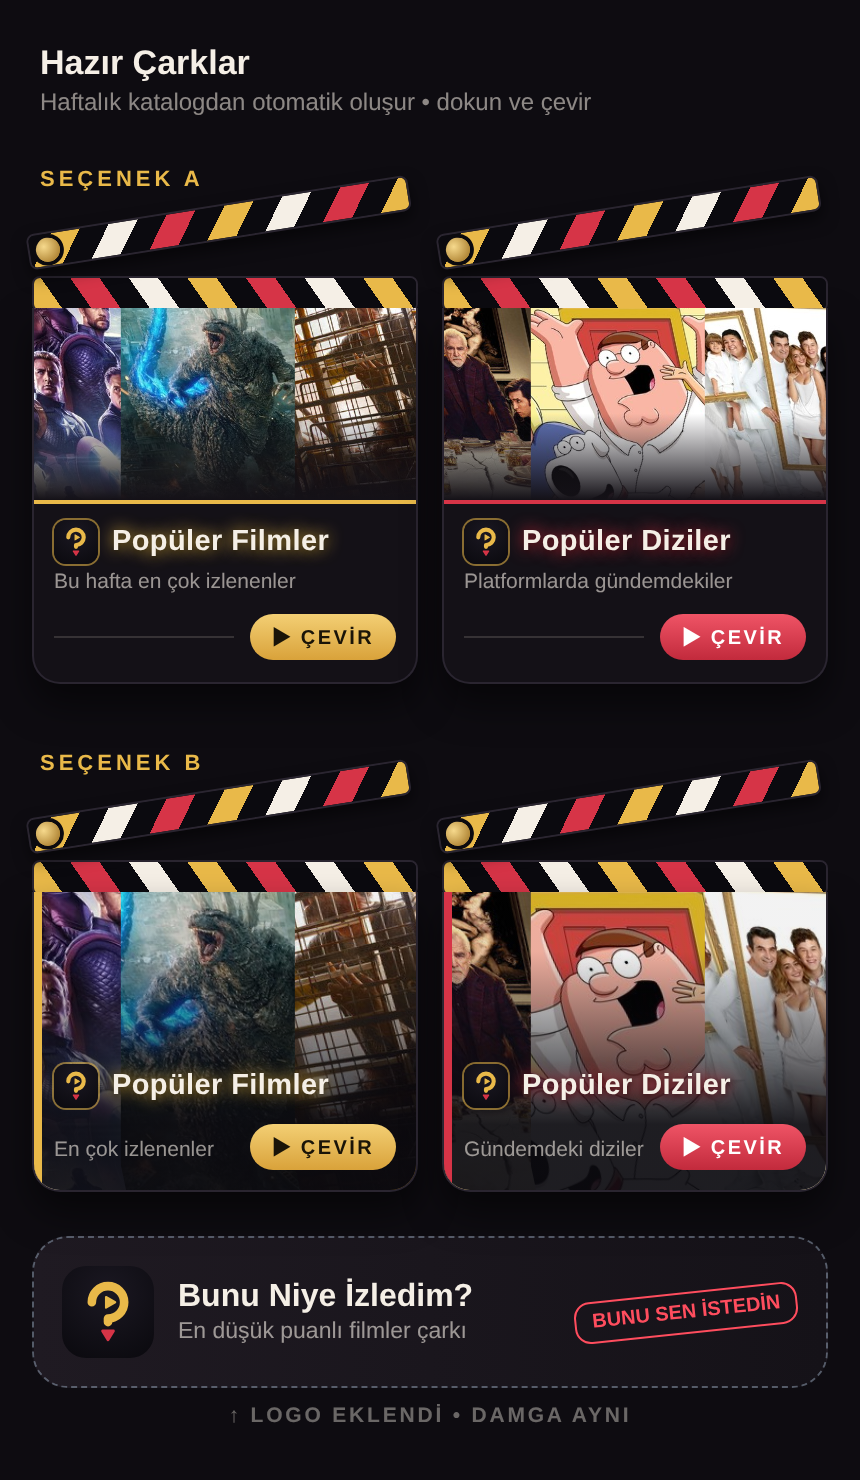
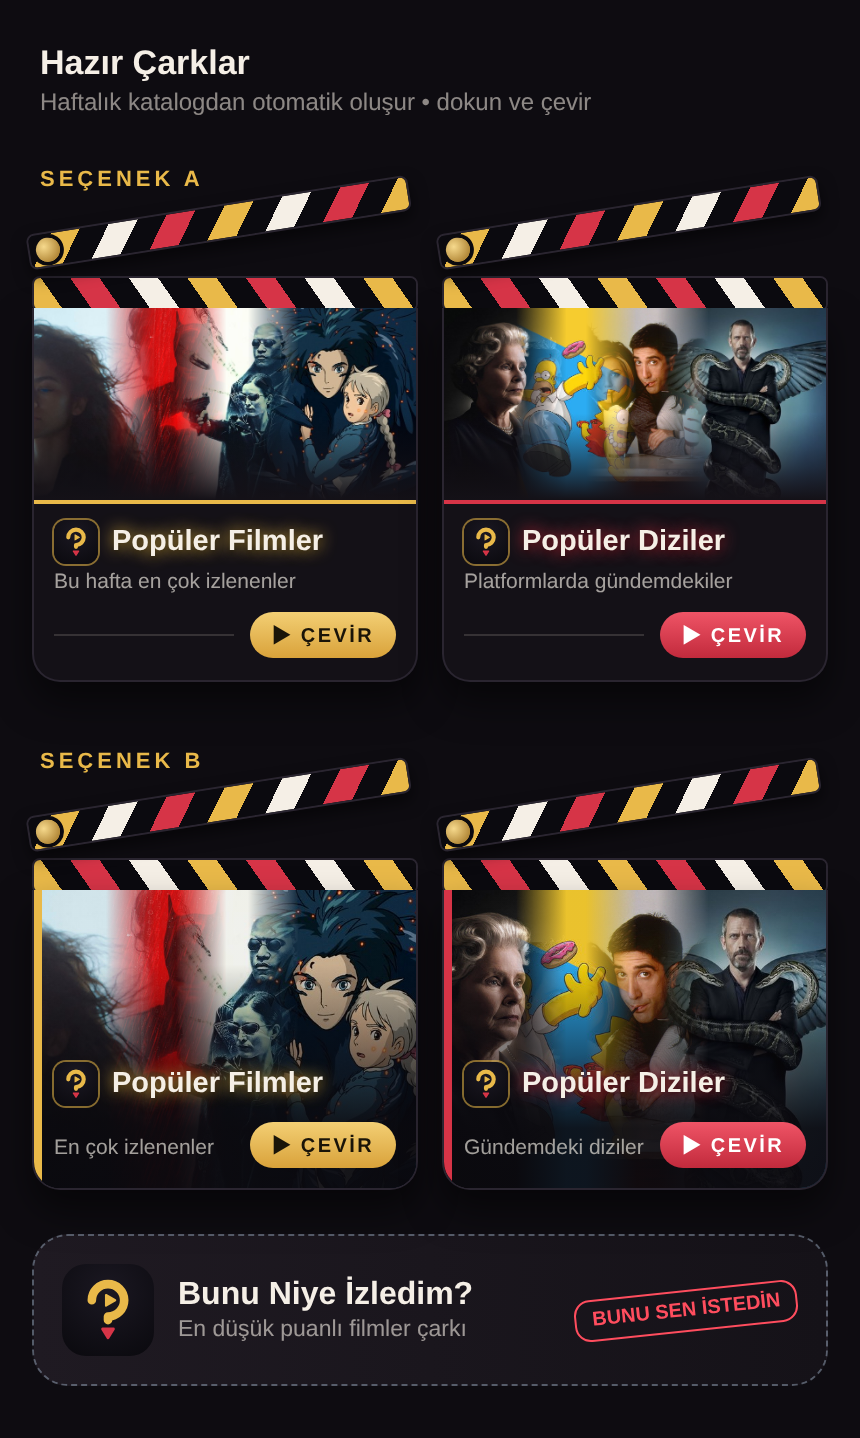
Önizleme: yumuşak geçişli görüntü kolajı, yeni film/dizi görüntüleri
Claude-Session: https://claude.ai/code/session_01Q1LBDkMis9fZfSetxmGZms

diff --git a/branding/hazir-carklar-secenekler.html b/branding/hazir-carklar-secenekler.html
@@ -1,59 +1,46 @@
 <!DOCTYPE html><html><head><meta charset="utf-8"><style>*{box-sizing:border-box;margin:0;padding:0}
 body{width:430px;background:#0e0c11;font-family:Roboto,"Noto Sans",Arial,sans-serif;color:#f5efe6;padding:22px 16px 26px}
 h2{font-size:17px;font-weight:900;margin:0 4px 2px}.sub{font-size:12px;color:rgba(245,239,230,.55);margin:0 4px 0}
-.opt{font-size:11px;letter-spacing:2px;font-weight:900;color:#e9b949;margin:26px 4px 6px}
-.grid{display:grid;grid-template-columns:1fr 1fr;gap:12px;margin-top:30px}
-.clap{position:relative}
-.lg{width:22px;height:22px;border-radius:6px;flex:none;box-shadow:0 0 0 1px rgba(233,185,73,.55)}
-.t{font-size:14.5px;font-weight:900;letter-spacing:.2px;white-space:nowrap}
-.d{font-size:10.5px;color:rgba(245,239,230,.6);margin-top:3px;line-height:1.25}
-.btn{font-size:10px;font-weight:900;letter-spacing:1.2px;color:#1a1408;background:linear-gradient(180deg,#f3cf74,#d9a23a);border-radius:999px;padding:5px 11px;white-space:nowrap;display:inline-block}
-.btn.red{background:linear-gradient(180deg,#ef5466,#c22a3c);color:#fff}
-/* A: üstte görsel, altta klaket tahtası */
-.A .body{margin-top:40px;border-radius:0 0 14px 14px;overflow:hidden;border:1.5px solid #2a2530;border-top:none;background:#141117;box-shadow:0 10px 18px rgba(0,0,0,.5)}
-.A .img{height:96px;position:relative;overflow:hidden}
-.A .img::after{content:"";position:absolute;inset:0;background:linear-gradient(180deg,rgba(11,10,15,0) 55%,#141117 100%)}
-.A .slate{padding:8px 10px 11px;border-top:2px solid var(--acc)}
-.A .row{display:flex;align-items:center;gap:7px}
-.A .foot{display:flex;align-items:center;justify-content:space-between;margin-top:9px}
-.A .chalk{flex:1;height:1px;background:rgba(245,239,230,.15);margin-right:8px}
-/* B: tam görsel, alt bant */
-.B .body{margin-top:40px;height:150px;border-radius:0 0 14px 14px;overflow:hidden;border:1.5px solid #2a2530;border-top:none;position:relative;box-shadow:0 10px 18px rgba(0,0,0,.5)}
-.B .body::after{content:"";position:absolute;inset:0;background:linear-gradient(180deg,rgba(11,10,15,.05) 20%,rgba(11,10,15,.92) 78%)}
-.B .band{position:absolute;left:10px;right:10px;bottom:10px;z-index:2}
-.B .row{display:flex;align-items:center;gap:7px}
-.B .foot{display:flex;justify-content:space-between;align-items:center;margin-top:8px}
-.B .bar{position:absolute;left:0;top:0;bottom:0;width:4px;background:var(--acc);z-index:2}
-.glow{text-shadow:0 0 8px var(--acc),0 1px 3px #000}
-
+.opt{font-size:11px;letter-spacing:2px;font-weight:900;color:#e9b949;margin:26px 4px 0}
+.grid{display:grid;grid-template-columns:1fr 1fr;gap:12px;margin-top:18px}
+.clap{position:relative;min-width:0}
 .stick{position:absolute;left:0;right:0;height:18px;border-radius:4px;overflow:hidden;background:#0b0a0f;border:1.5px solid #2a2530}
 .stick.low{top:24px}
 .stick.top{top:2px;transform-origin:8px 22px;transform:rotate(-9deg);z-index:2;box-shadow:0 4px 8px rgba(0,0,0,.5)}
 .stripes{position:absolute;inset:0;background:repeating-linear-gradient(-55deg,#e9b949 0 12px,#0b0a0f 12px 24px,#d63447 24px 36px,#0b0a0f 36px 48px,#f5efe6 48px 60px,#0b0a0f 60px 72px)}
 .stick.low .stripes{background:repeating-linear-gradient(55deg,#e9b949 0 12px,#0b0a0f 12px 24px,#d63447 24px 36px,#0b0a0f 36px 48px,#f5efe6 48px 60px,#0b0a0f 60px 72px)}
 .hinge{position:absolute;left:3px;top:2px;width:12px;height:12px;border-radius:50%;background:radial-gradient(circle at 35% 35%,#f6d98c,#9c6d1c);box-shadow:0 0 0 2px #0b0a0f}
-
+.lg{width:22px;height:22px;border-radius:6px;flex:none;box-shadow:0 0 0 1px rgba(233,185,73,.55)}
+.t{font-size:14.5px;font-weight:900;white-space:nowrap}
+.d{font-size:10.5px;color:rgba(245,239,230,.65);margin-top:3px}
+.btn{font-size:10px;font-weight:900;letter-spacing:1.2px;color:#1a1408;background:linear-gradient(180deg,#f3cf74,#d9a23a);border-radius:999px;padding:5px 11px;white-space:nowrap}
+.btn.red{background:linear-gradient(180deg,#ef5466,#c22a3c);color:#fff}
+.glow{text-shadow:0 0 8px var(--acc),0 1px 3px #000}
+.row{display:flex;align-items:center;gap:7px}
+.blend{position:absolute;inset:0;overflow:hidden;background:#0b0a0f}
+.blend img{position:absolute;top:0;height:100%;width:44%;object-fit:cover;filter:saturate(1.05);
+ -webkit-mask-image:linear-gradient(90deg,transparent 0%,#000 30%,#000 70%,transparent 100%)}
+.blend img.f{-webkit-mask-image:linear-gradient(90deg,#000 0%,#000 70%,transparent 100%)}
+.blend img.l{-webkit-mask-image:linear-gradient(90deg,transparent 0%,#000 30%,#000 100%)}
+.A .body{margin-top:40px;border-radius:0 0 14px 14px;overflow:hidden;border:1.5px solid #2a2530;border-top:none;background:#141117;box-shadow:0 10px 18px rgba(0,0,0,.5)}
+.A .img{height:96px;position:relative}
+.A .img::after{content:"";position:absolute;inset:0;background:linear-gradient(180deg,rgba(20,17,23,0) 55%,#141117 100%)}
+.A .slate{padding:8px 10px 11px;border-top:2px solid var(--acc)}
+.A .foot{display:flex;align-items:center;justify-content:space-between;margin-top:9px}
+.A .chalk{flex:1;height:1px;background:rgba(245,239,230,.15);margin-right:8px}
+.B .body{margin-top:40px;height:150px;border-radius:0 0 14px 14px;overflow:hidden;border:1.5px solid #2a2530;border-top:none;position:relative;box-shadow:0 10px 18px rgba(0,0,0,.5)}
+.B .body::after{content:"";position:absolute;inset:0;background:linear-gradient(180deg,rgba(11,10,15,.05) 25%,rgba(11,10,15,.93) 80%)}
+.B .band{position:absolute;left:10px;right:10px;bottom:10px;z-index:2}
+.B .foot{display:flex;justify-content:space-between;align-items:center;margin-top:8px}
+.B .bar{position:absolute;left:0;top:0;bottom:0;width:4px;background:var(--acc);z-index:2}
 .worst{display:flex;align-items:center;gap:12px;border-radius:18px;padding:14px;margin-top:22px;background:linear-gradient(90deg,#1f1a22,#151218);border:1.5px dashed rgba(148,163,184,.5)}
-.worst .e{width:46px;height:46px;border-radius:12px;background:rgba(148,163,184,.15);display:flex;align-items:center;justify-content:center;font-size:24px;flex:none}
 .worst .tt{font-weight:900;font-size:16px}.worst .ss{font-size:11.5px;color:rgba(245,239,230,.6);margin-top:2px}
 .worst .go2{margin-left:auto;white-space:nowrap;font-size:10px;font-weight:900;color:#ff4d5e;border:1.5px solid #ff4d5e;border-radius:8px;padding:4px 8px;transform:rotate(-6deg);flex:none}
-.note{font-size:10.5px;letter-spacing:1.4px;color:rgba(245,239,230,.4);font-weight:800;text-align:center;margin-top:8px}
-.strips{position:absolute;top:0;bottom:0;left:-18%;right:-18%;display:flex;gap:3px;transform:skewX(-12deg);background:#e9b949}
-.strips div{flex:1;background-size:cover;background-position:center;transform:skewX(12deg) scale(1.25)}
-.strips .w{flex:1;overflow:hidden}
 </style></head><body>
 <h2>Hazır Çarklar</h2><div class="sub">Haftalık katalogdan otomatik oluşur • dokun ve çevir</div>
 <div class="opt">SEÇENEK A</div>
-<div class="grid" style="margin-top:18px"><div class="clap A" style="--acc:#E9B949"><div class="stick top"><div class="stripes"></div><div class="hinge"></div></div><div class="stick low"><div class="stripes"></div></div><div class="body"><div class="img"><div class="strips"><div class="w"><div style="height:100%;background-image:url(p/bd_7RyHsO4yDXtBv1zUU3mTpHeQ0d5.jpg)"></div></div><div class="w"><div style="height:100%;background-image:url(p/bd_oHBhHoNe59VH6bUMazDtJmWOFSS.jpg)"></div></div><div class="w"><div style="height:100%;background-image:url(p/bd_o3XwuDUj0n8qnK91p6q8LKfr6rj.jpg)"></div></div></div></div>
-<div class="slate"><div class="row"><img class="lg" src="logo.svg"><div class="t glow">Popüler Filmler</div></div><div class="d">Bu hafta en çok izlenenler</div>
-<div class="foot"><div class="chalk"></div><span class="btn ">▶ ÇEVİR</span></div></div></div></div><div class="clap A" style="--acc:#D63447"><div class="stick top"><div class="stripes"></div><div class="hinge"></div></div><div class="stick low"><div class="stripes"></div></div><div class="body"><div class="img"><div class="strips"><div class="w"><div style="height:100%;background-image:url(p/bd_d87JXX3DLkRJMfm5StCmmnmhHuX.jpg)"></div></div><div class="w"><div style="height:100%;background-image:url(p/bd_jbTqU6BJMufoMnPSlO4ThrcXs3Y.jpg)"></div></div><div class="w"><div style="height:100%;background-image:url(p/bd_nO7EzksrBzlNpAg5rgv8HzaBIkx.jpg)"></div></div></div></div>
-<div class="slate"><div class="row"><img class="lg" src="logo.svg"><div class="t glow">Popüler Diziler</div></div><div class="d">Platformlarda gündemdekiler</div>
-<div class="foot"><div class="chalk"></div><span class="btn red">▶ ÇEVİR</span></div></div></div></div></div>
+<div class="grid"><div class="clap A" style="--acc:#E9B949"><div class="stick top"><div class="stripes"></div><div class="hinge"></div></div><div class="stick low"><div class="stripes"></div></div><div class="body"><div class="img"><div class="blend"><img class="f" src="p/bd2_qVgZu5BTx6pu4owCvVOm4zjTfOi.jpg" style="left:0%"><img class="" src="p/bd2_rvtdN5XkWAfGX6xDuPL6yYS2seK.jpg" style="left:19%"><img class="" src="p/bd2_tlm8UkiQsitc8rSuIAscQDCnP8d.jpg" style="left:37%"><img class="l" src="p/bd2_nv5wwZou159v5OC61i4ElR7OqyY.jpg" style="left:56%"></div></div><div class="slate"><div class="row"><img class="lg" src="logo.svg"><div class="t glow">Popüler Filmler</div></div><div class="d">Bu hafta en çok izlenenler</div><div class="foot"><div class="chalk"></div><span class="btn ">▶ ÇEVİR</span></div></div></div></div><div class="clap A" style="--acc:#D63447"><div class="stick top"><div class="stripes"></div><div class="hinge"></div></div><div class="stick low"><div class="stripes"></div></div><div class="body"><div class="img"><div class="blend"><img class="f" src="p/bd2_8VXhcrl5z2I1zEU9X3pkkNrZlD.jpg" style="left:0%"><img class="" src="p/bd2_jIArNHIekrCSVgdMbKPAXpPY03Y.jpg" style="left:19%"><img class="" src="p/bd2_l0qVZIpXtIo7km9u5Yqh0nKPOr5.jpg" style="left:37%"><img class="l" src="p/bd2_r0Q6eeN9L1ORL9QsV0Sg8ZV3vnv.jpg" style="left:56%"></div></div><div class="slate"><div class="row"><img class="lg" src="logo.svg"><div class="t glow">Popüler Diziler</div></div><div class="d">Platformlarda gündemdekiler</div><div class="foot"><div class="chalk"></div><span class="btn red">▶ ÇEVİR</span></div></div></div></div></div>
 <div class="opt" style="margin-top:34px">SEÇENEK B</div>
-<div class="grid" style="margin-top:18px"><div class="clap B" style="--acc:#E9B949"><div class="stick top"><div class="stripes"></div><div class="hinge"></div></div><div class="stick low"><div class="stripes"></div></div><div class="body"><div class="strips"><div class="w"><div style="height:100%;background-image:url(p/bd_7RyHsO4yDXtBv1zUU3mTpHeQ0d5.jpg)"></div></div><div class="w"><div style="height:100%;background-image:url(p/bd_oHBhHoNe59VH6bUMazDtJmWOFSS.jpg)"></div></div><div class="w"><div style="height:100%;background-image:url(p/bd_o3XwuDUj0n8qnK91p6q8LKfr6rj.jpg)"></div></div></div><div class="bar"></div>
-<div class="band"><div class="row"><img class="lg" src="logo.svg"><div class="t glow">Popüler Filmler</div></div>
-<div class="foot"><div class="d">En çok izlenenler</div><span class="btn ">▶ ÇEVİR</span></div></div></div></div><div class="clap B" style="--acc:#D63447"><div class="stick top"><div class="stripes"></div><div class="hinge"></div></div><div class="stick low"><div class="stripes"></div></div><div class="body"><div class="strips"><div class="w"><div style="height:100%;background-image:url(p/bd_d87JXX3DLkRJMfm5StCmmnmhHuX.jpg)"></div></div><div class="w"><div style="height:100%;background-image:url(p/bd_jbTqU6BJMufoMnPSlO4ThrcXs3Y.jpg)"></div></div><div class="w"><div style="height:100%;background-image:url(p/bd_nO7EzksrBzlNpAg5rgv8HzaBIkx.jpg)"></div></div></div><div class="bar"></div>
-<div class="band"><div class="row"><img class="lg" src="logo.svg"><div class="t glow">Popüler Diziler</div></div>
-<div class="foot"><div class="d">Gündemdeki diziler</div><span class="btn red">▶ ÇEVİR</span></div></div></div></div></div>
-<div class="worst"><div class="e" style="background:none"><img src="logo.svg" style="width:46px;height:46px;border-radius:12px"></div><div><div class="tt">Bunu Niye İzledim?</div><div class="ss">En düşük puanlı filmler çarkı</div></div><div class="go2">BUNU SEN İSTEDİN</div></div>
-<div class="note">↑ LOGO EKLENDİ • DAMGA AYNI</div></body></html>
+<div class="grid"><div class="clap B" style="--acc:#E9B949"><div class="stick top"><div class="stripes"></div><div class="hinge"></div></div><div class="stick low"><div class="stripes"></div></div><div class="body"><div class="blend"><img class="f" src="p/bd2_qVgZu5BTx6pu4owCvVOm4zjTfOi.jpg" style="left:0%"><img class="" src="p/bd2_rvtdN5XkWAfGX6xDuPL6yYS2seK.jpg" style="left:19%"><img class="" src="p/bd2_tlm8UkiQsitc8rSuIAscQDCnP8d.jpg" style="left:37%"><img class="l" src="p/bd2_nv5wwZou159v5OC61i4ElR7OqyY.jpg" style="left:56%"></div><div class="bar"></div><div class="band"><div class="row"><img class="lg" src="logo.svg"><div class="t glow">Popüler Filmler</div></div><div class="foot"><div class="d">En çok izlenenler</div><span class="btn ">▶ ÇEVİR</span></div></div></div></div><div class="clap B" style="--acc:#D63447"><div class="stick top"><div class="stripes"></div><div class="hinge"></div></div><div class="stick low"><div class="stripes"></div></div><div class="body"><div class="blend"><img class="f" src="p/bd2_8VXhcrl5z2I1zEU9X3pkkNrZlD.jpg" style="left:0%"><img class="" src="p/bd2_jIArNHIekrCSVgdMbKPAXpPY03Y.jpg" style="left:19%"><img class="" src="p/bd2_l0qVZIpXtIo7km9u5Yqh0nKPOr5.jpg" style="left:37%"><img class="l" src="p/bd2_r0Q6eeN9L1ORL9QsV0Sg8ZV3vnv.jpg" style="left:56%"></div><div class="bar"></div><div class="band"><div class="row"><img class="lg" src="logo.svg"><div class="t glow">Popüler Diziler</div></div><div class="foot"><div class="d">Gündemdeki diziler</div><span class="btn red">▶ ÇEVİR</span></div></div></div></div></div>
+<div class="worst"><img src="logo.svg" style="width:46px;height:46px;border-radius:12px;flex:none"><div><div class="tt">Bunu Niye İzledim?</div><div class="ss">En düşük puanlı filmler çarkı</div></div><div class="go2">BUNU SEN İSTEDİN</div></div>
+</body></html>
